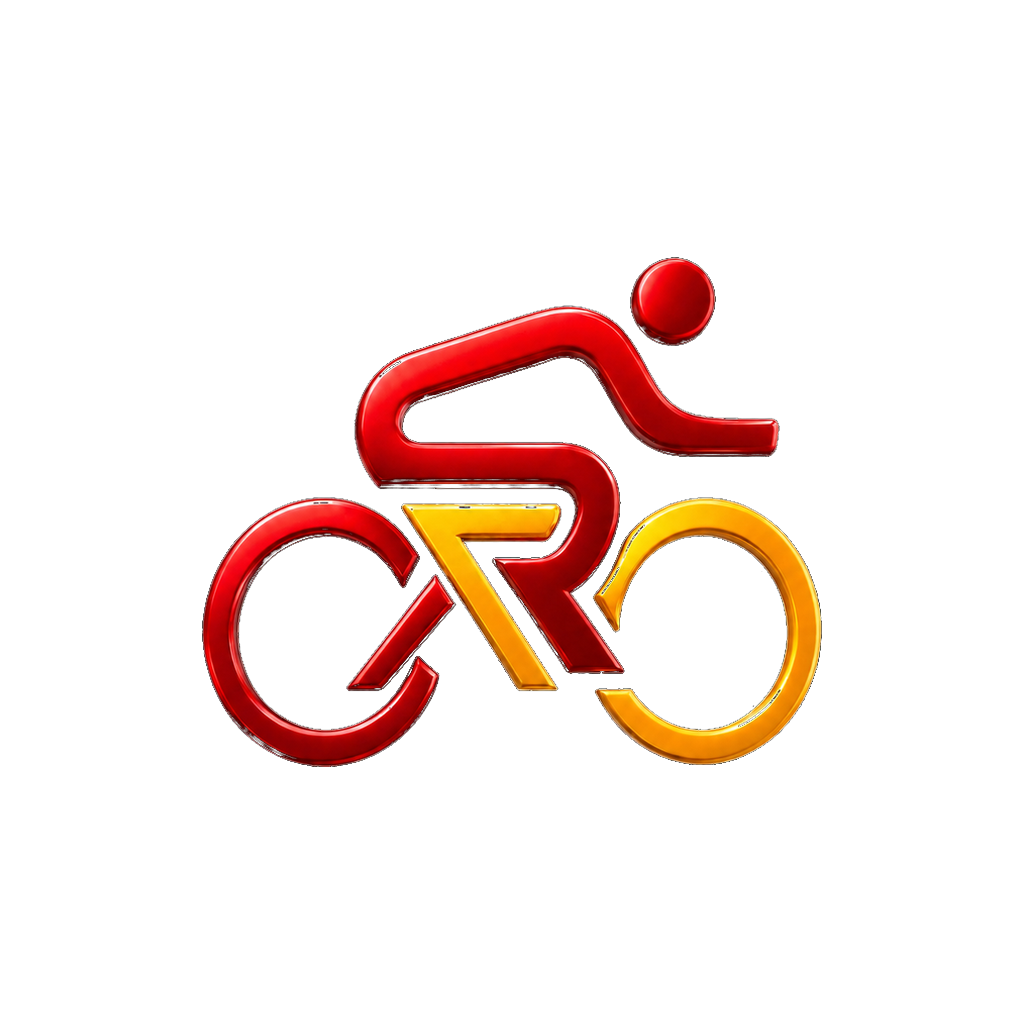
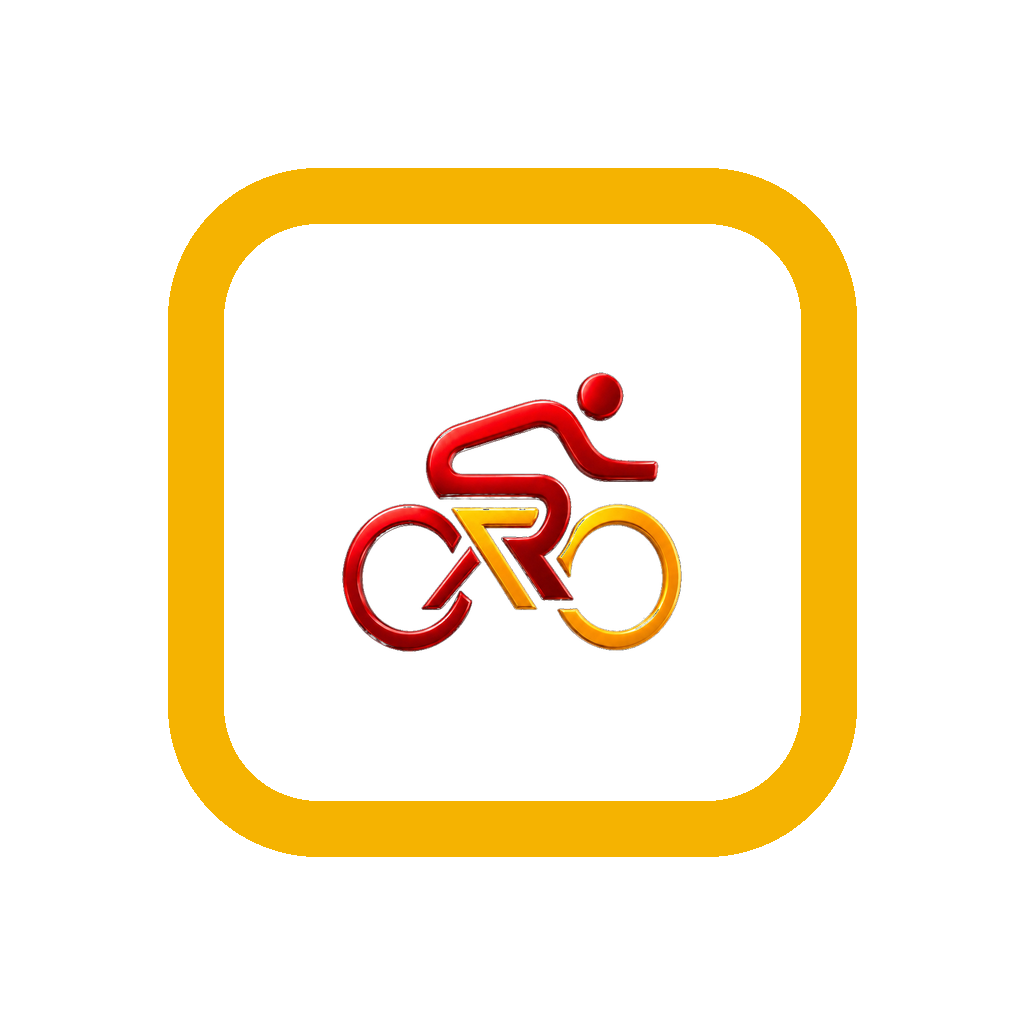
All three changes are complete and verified.
## Logo Border + Smooth Music Fade + Distance Ring 🚴

- **App icon**: Reverted to your previous black CRO cyclist logo with a **thick yellow border** matching the logo's yellow — updated icon, adaptive icon, favicon, and splash background to black *(icon changes appear on a real device build, not in the web/Expo Go preview)*
- **Auto Music Fade**: Pausing now **fades the music down smoothly** over ~0.6s instead of a hard cut, and gently fades back up on resume (the coach's voice still stops instantly)
- **Distance Goal Ring**: The SESSION card's distance now has a **small progress ring** showing how far into the route you are at a glance

**Next Action Items:**
- **Icon Preview**: Apply the yellow border to the in-app logo on the login/home screens so it matches the new app icon
- **Distance ETA**: Show a small "arriving in ~X min" under the distance ring based on current speed
- **More Ride Modes**: Turn on Gravel, Mountain Bike, and Running modes so riders can pick how they train
- **Fade Length**: Let riders choose how quickly music fades when pausing in settings

---
**Getting these live:**
- Once you deploy your app to production, you can generate iOS and Android builds. After that, you can publish to the App/Play Store.
- **iOS builds**: you need an Apple developer account — log in, generate a build, submit to TestFlight, and test on a real iOS device.
- **Android builds**: we provide .APK and .AAB files so you can test on a real Android device.
[…]

Changed region(s): [[0.1562, 0.1562, 0.8438, 0.8438]]

diff --git a/frontend/src/hooks/useWorkoutAudio.ts b/frontend/src/hooks/useWorkoutAudio.ts
@@ -132,6 +132,11 @@ export function useWorkoutAudio(paused = false) {
   const coachVoiceRef = useRef<Partial<Record<CoachId, { id?: string; lang: string }>>>({});
   const persona = useCoach();
   const coach = persona.id;
+  // Track paused in a ref so playback helpers can gate on it without adding it
+  // to their dependency arrays (the smooth fade is driven by the effect below).
+  const pausedRef = useRef(paused);
+  pausedRef.current = paused;
+  const fadeRef = useRef<ReturnType<typeof setInterval> | null>(null);
 
   // Build a curated, de-duplicated list of Spanish/English voices for the
   // selector, and choose Alberto's default (a Spanish male) or the rider's
@@ -208,14 +213,32 @@ export function useWorkoutAudio(paused = false) {
 
   const apply = useCallback(() => {
     try {
-      const active = musicOn && !paused;
+      const active = musicOn && !pausedRef.current;
       player.volume = active ? volume * (speaking.current ? DUCK : 1) : 0;
       if (active) player.play();
-      else player.pause();
+      else if (!musicOn) player.pause();
     } catch {
       /* player not ready yet */
     }
-  }, [player, musicOn, volume, paused]);
+  }, [player, musicOn, volume]);
+
+  // Smoothly ramp the music volume to `target` over ~600ms, then run `after`.
+  const fadeTo = useCallback((target: number, after?: () => void) => {
+    if (fadeRef.current) { clearInterval(fadeRef.current); fadeRef.current = null; }
+    const steps = 12, dur = 600;
+    let start = 0;
+    try { start = player.volume ?? 0; } catch { /* noop */ }
+    let i = 0;
+    fadeRef.current = setInterval(() => {
+      i += 1;
+      const v = start + (target - start) * (i / steps);
+      try { player.volume = Math.max(0, Math.min(1, v)); } catch { /* noop */ }
+      if (i >= steps) {
+        if (fadeRef.current) { clearInterval(fadeRef.current); fadeRef.current = null; }
+        after?.();
+      }
+    }, dur / steps);
+  }, [player]);
 
   const status = useAudioPlayerStatus(player);
 
@@ -236,10 +259,10 @@ export function useWorkoutAudio(paused = false) {
     try {
       player.replace({ uri: MUSIC_TRACKS[idx].uri });
       player.loop = false;
-      player.volume = musicOn && !paused ? volume * (speaking.current ? DUCK : 1) : 0;
-      if (musicOn && !paused) player.play();
+      player.volume = musicOn && !pausedRef.current ? volume * (speaking.current ? DUCK : 1) : 0;
+      if (musicOn && !pausedRef.current) player.play();
     } catch { /* player not ready */ }
-  }, [player, musicOn, volume, paused]);
+  }, [player, musicOn, volume]);
 
   // When the current track finishes, roll to the next random one.
   const finishedRef = useRef(false);
@@ -258,17 +281,24 @@ export function useWorkoutAudio(paused = false) {
 
   // Pausing the workout silences everything immediately: stop the coach's
   // speech and pause the music. Resuming re-applies music (handled by `apply`).
+  // Pausing the workout eases everything out: the coach's speech stops at once
+  // and the music FADES down smoothly before the player is paused. Resuming
+  // starts the music and fades it back up for a gentle return.
   useEffect(() => {
     if (paused) {
       speaking.current = false;
-      try { Speech.stop(); player.pause(); } catch { /* noop */ }
-    } else {
-      apply();
+      try { Speech.stop(); } catch { /* noop */ }
+      if (musicOn) fadeTo(0, () => { try { player.pause(); } catch { /* noop */ } });
+      else { try { player.pause(); } catch { /* noop */ } }
+    } else if (musicOn) {
+      try { player.volume = 0; player.play(); } catch { /* noop */ }
+      fadeTo(volume * (speaking.current ? DUCK : 1));
     }
+    // eslint-disable-next-line react-hooks/exhaustive-deps
   }, [paused]);
 
   useEffect(() => {
-    return () => { try { Speech.stop(); player.pause(); } catch { /* noop */ } };
+    return () => { try { Speech.stop(); if (fadeRef.current) clearInterval(fadeRef.current); player.pause(); } catch { /* noop */ } };
   }, [player]);
 
   const setVolume = useCallback((v: number) => setVolumeState(Math.max(0, Math.min(1, v))), []);

diff --git a/frontend/src/components/workout-live.tsx b/frontend/src/components/workout-live.tsx
@@ -2,7 +2,7 @@ import React from "react";
 import { View, Text, StyleSheet, Pressable, ScrollView, useWindowDimensions } from "react-native";
 import { Image } from "expo-image";
 import { Ionicons } from "@expo/vector-icons";
-import Svg, { Polyline, Polygon as SvgPolygon } from "react-native-svg";
+import Svg, { Polyline, Polygon as SvgPolygon, Circle } from "react-native-svg";
 import { colors, radius, spacing, textShadow } from "@/src/theme";
 
 const WORDMARK = require("../../assets/images/auth_wordmark.png");
@@ -130,6 +130,25 @@ export function ConnectionsPanel({ trainerOn, wearableOn, powerOn, hrOn, cadence
 }
 
 // ---- Session card (Elapsed / Est. finish / Distance) ----------------------
+// A small circular progress ring showing how far into the route the rider is.
+function DistanceRing({ progress }: { progress: number }) {
+  const p = Math.max(0, Math.min(1, progress));
+  const size = 46, stroke = 5, r = (size - stroke) / 2, c = 2 * Math.PI * r;
+  return (
+    <View style={{ width: size, height: size, alignItems: "center", justifyContent: "center" }} testID="distance-ring">
+      <Svg width={size} height={size} style={{ position: "absolute" }}>
+        <Circle cx={size / 2} cy={size / 2} r={r} stroke={colors.borderSoft} strokeWidth={stroke} fill="none" />
+        <Circle
+          cx={size / 2} cy={size / 2} r={r} stroke={colors.yellow} strokeWidth={stroke} fill="none"
+          strokeDasharray={`${c} ${c}`} strokeDashoffset={c * (1 - p)} strokeLinecap="round"
+          transform={`rotate(-90 ${size / 2} ${size / 2})`}
+        />
+      </Svg>
+      <Text style={sc.ringPct}>{Math.round(p * 100)}%</Text>
+    </View>
+  );
+}
+
 export function SessionCard({ elapsed, estFinish, riddenKm, totalKm }: { elapsed: string; estFinish: string; riddenKm: number; totalKm: number }) {
   return (
     <View style={sc.panel} testID="session-card">
@@ -144,9 +163,12 @@ export function SessionCard({ elapsed, estFinish, riddenKm, totalKm }: { elapsed
         <Text style={sc.value} testID="session-estfinish">{estFinish}</Text>
       </View>
       <View style={sc.divider} />
-      <View style={sc.stat}>
-        <Text style={sc.label}>DISTANCE</Text>
-        <Text style={sc.value} testID="session-distance">{riddenKm.toFixed(1)}<Text style={sc.unit}> / {totalKm.toFixed(1)} km</Text></Text>
+      <View style={sc.distRow}>
+        <View style={sc.distText}>
+          <Text style={sc.label}>DISTANCE</Text>
+          <Text style={sc.value} testID="session-distance">{riddenKm.toFixed(1)}<Text style={sc.unit}> / {totalKm.toFixed(1)} km</Text></Text>
+        </View>
+        <DistanceRing progress={totalKm > 0 ? riddenKm / totalKm : 0} />
       </View>
     </View>
   );
@@ -599,6 +621,9 @@ const sc = StyleSheet.create({
   value: { color: colors.white, fontSize: 26, fontWeight: "900", fontVariant: ["tabular-nums"], letterSpacing: 0.5 },
   unit: { color: colors.textDim, fontSize: 14, fontWeight: "700" },
   divider: { height: 1, backgroundColor: colors.borderSoft, marginVertical: 4 },
+  distRow: { flexDirection: "row", alignItems: "center", justifyContent: "space-between", paddingVertical: 6 },
+  distText: { flex: 1 },
+  ringPct: { color: colors.yellow, fontSize: 11, fontWeight: "800", fontVariant: ["tabular-nums"] },
 });
 
 const cb = StyleSheet.create({

diff --git a/memory/PRD.md b/memory/PRD.md
@@ -1018,3 +1018,8 @@ User wanted an in-app rating + feedback capture (fb50-style) opened from Setting
   - New SessionCard component (testID session-card) replaces ConnectionsPanel in leftCol: shows ELAPSED (session-elapsed), EST. FINISH (session-estfinish), DISTANCE riddenKm/totalKm km (session-distance). Styles `sc`.
   - MetricCard gained optional `connected?: boolean` -> renders a "● LIVE / Off" dot+text (m.conn/connDot/connText, testID metric-conn-<label>). HR uses wearableOn; Speed/Cadence/Power use trainerOn. Connection status thus moved from the removed ConnectionsPanel onto the top metric cards.
   - StepTimeline header no longer renders ELAPSED/EST FINISH (props elapsed/estFinish removed from signature; only `progress` kept for pct). ConnectionsPanel/WorkoutCard remain defined but unused (no other importers).
+
+## Logo revert + border, music fade, distance ring (2026-06 fork)
+- App icon: reverted to the previous black CRO cyclist logo (recovered from git commit cdf5680) and added a thick brand-yellow (#F5B301) rounded border. Regenerated frontend/assets/images/icon.png (inset 30, border width 60, radius 200), favicon.png (256), and adaptive-icon.png (transparent logo ~560px centered + yellow rounded border inset 168 to survive circular masks). app.json: android.adaptiveIcon.backgroundColor and expo-splash-screen backgroundColor changed #F4B51E -> #000000. Native-only (not visible in web/Expo Go preview).
+- Auto music fade: useWorkoutAudio pause/resume now fades music volume over ~600ms via fadeTo() setInterval ramp instead of a hard stop. apply()/advanceTrack gate on pausedRef (paused removed from their deps) so they don't fight the fade; paused effect: on pause Speech.stop()+fadeTo(0)->player.pause(); on resume player.play() from volume 0 then fadeTo(target). Fade interval cleared on unmount.
+- Distance goal ring: SessionCard DISTANCE row now shows a DistanceRing (react-native-svg Circle, testID distance-ring) — a 46px ring with % label showing riddenKm/totalKm progress. Circle added to svg import; sc styles distRow/distText/ringPct added. Verified on /workout (ring shows 0% at start, no console errors, pause fade path error-free).
